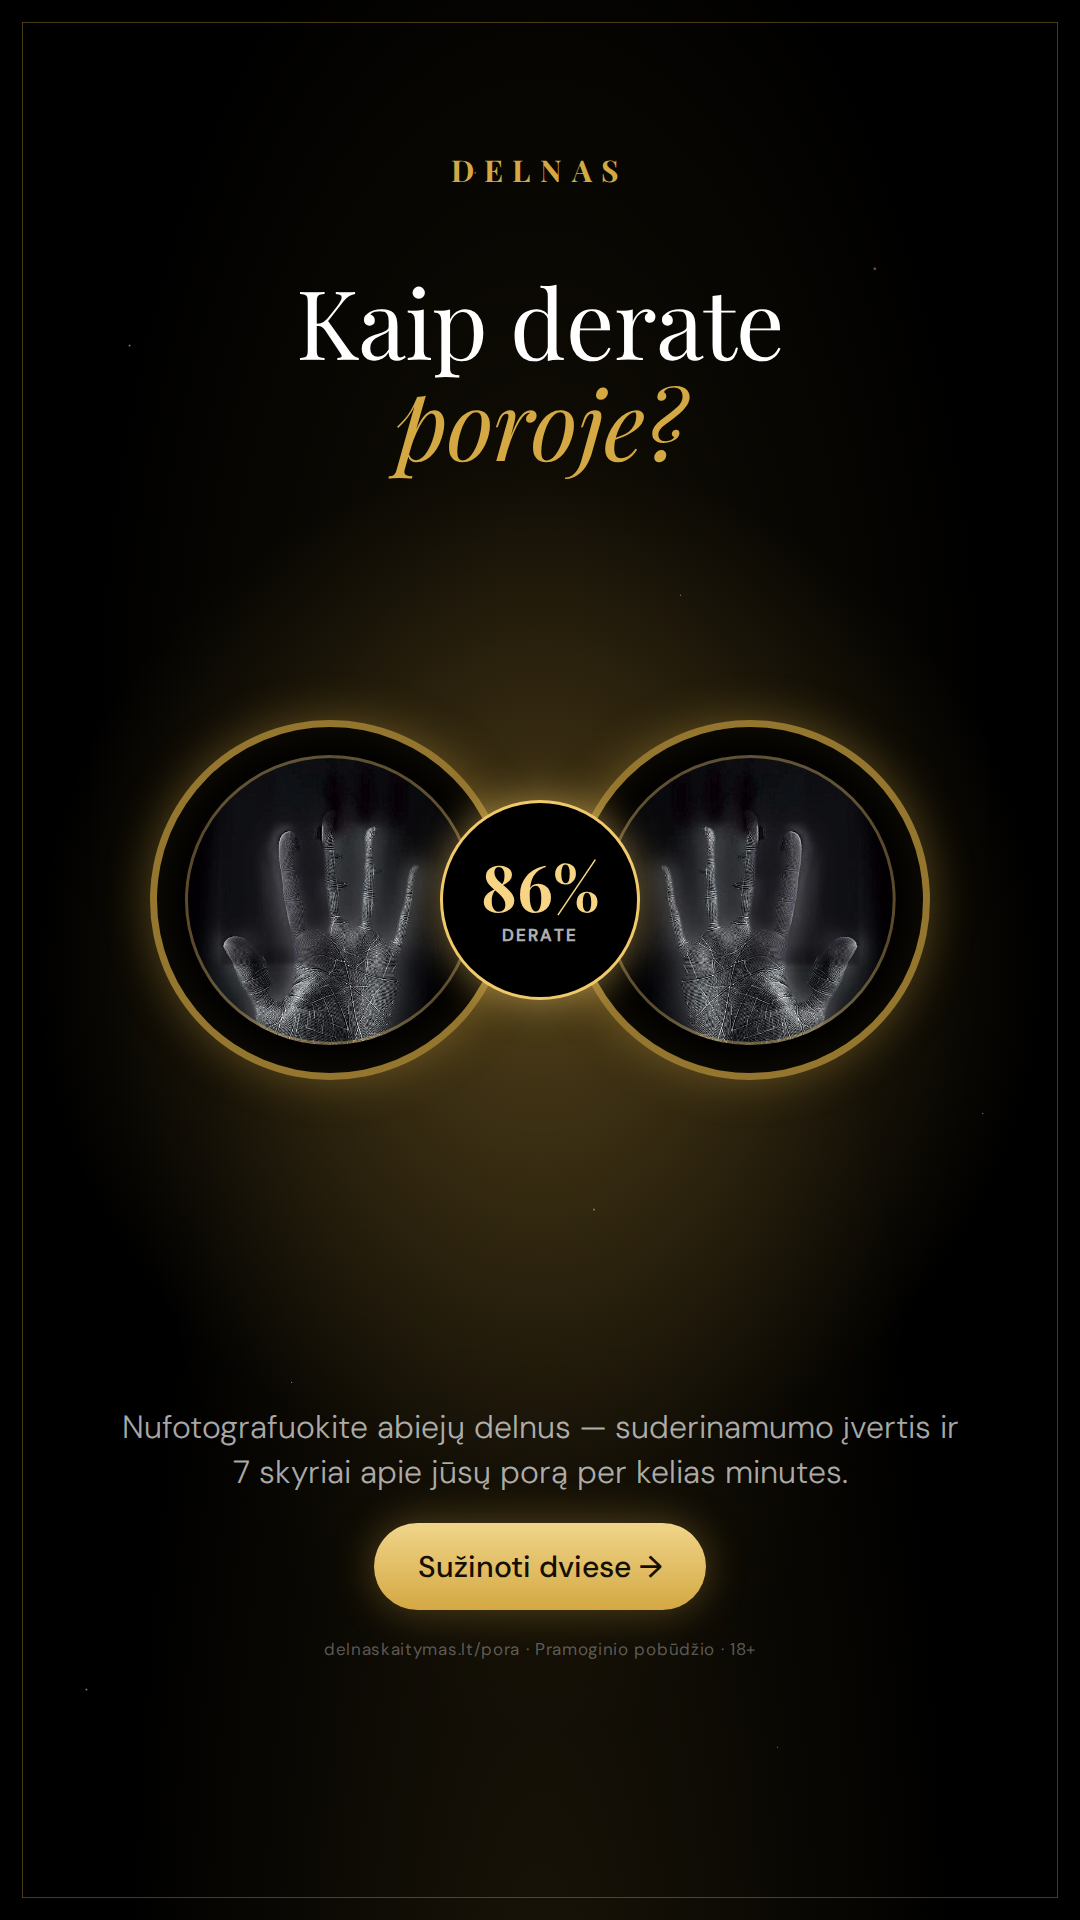
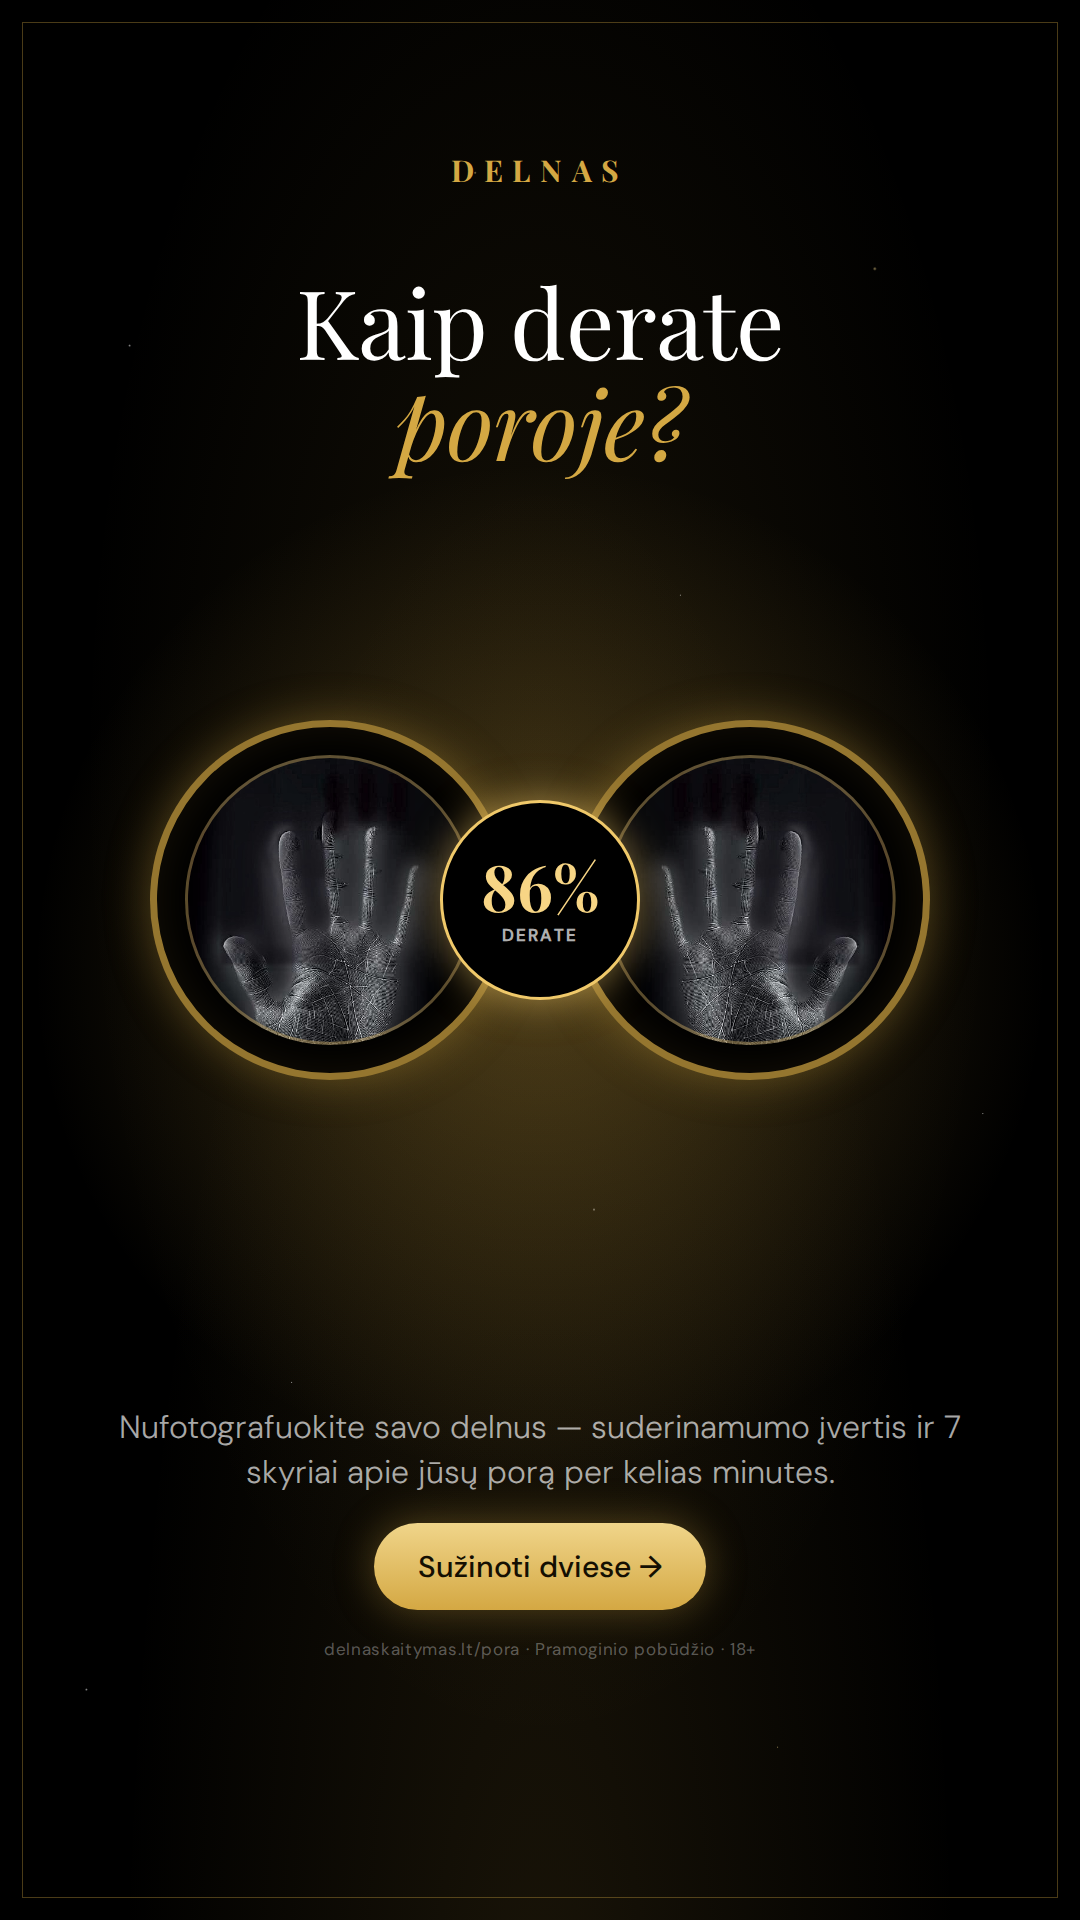
Porų tekstai: „nufotografuokite savo delnus“ vietoj „abiejų delnus“
Claude-Session: https://claude.ai/code/session_01SAS6jcXVwrehsNMXyhjzXP

Changed region(s): [[0.1222, 0.7188, 0.8861, 0.7812]]

diff --git a/pora.html b/pora.html
@@ -199,7 +199,7 @@ a{color:var(--gold)}
       <h1>Ką apie jūsų porą<br><em>pasakoja delnai?</em></h1>
     </div>
     <div class="gift-note hidden" id="gift-note"></div>
-    <p class="lead sm" id="lead">Nufotografuokite abiejų delnus — ir gaukite porų suderinamumo analizę: kas jus sieja, kuo papildote vienas kitą ir kur verta susitarti.</p>
+    <p class="lead sm" id="lead">Nufotografuokite savo delnus — ir gaukite porų suderinamumo analizę: kas jus sieja, kuo papildote vienas kitą ir kur verta susitarti.</p>
     <form class="card-form" id="pora-form" novalidate>
       <div class="row2">
         <label for="f-a">Tavo vardas</label>
@@ -311,7 +311,7 @@ a{color:var(--gold)}
       document.querySelector('#v-form h1').innerHTML = '🎁 Jums dovana —<br><em>porų suderinamumas</em>';
       $('gift-note').innerHTML = (d.message ? '<i>„' + esc(d.message) + '“</i>' : '') + (d.fromName ? '<span>— nuo ' + esc(d.fromName) + '</span>' : '') ;
       $('gift-note').classList.toggle('hidden', !d.message && !d.fromName);
-      $('lead').textContent = 'Įrašykite abu vardus ir el. paštą, tada nufotografuokite abiejų delnus. Mokėti nereikia.';
+      $('lead').textContent = 'Įrašykite abu vardus ir el. paštą, tada nufotografuokite savo delnus. Mokėti nereikia.';
       $('pay-btn').innerHTML = 'Pradėti →';
       document.querySelector('#pora-form .trust').textContent = '🎁 Apmokėta dovanų kuponu ' + d.code;
     } catch (e) { giftError('Nepavyko patikrinti dovanos kodo'); }

diff --git a/dovana.html b/dovana.html
@@ -426,7 +426,7 @@ body:not(.kind-pora) #v-form .hero2{display:none}
     $('form-lead').textContent = pora ? 'Porų suderinamumo analizė pagal abiejų delnus — dovanų. Kortelė su kodu — iškart į tavo el. paštą.' : 'Asmeninė delnų analizė dovanų. Kortelė su kodu — iškart į tavo el. paštą.';
     $('f-to').placeholder = pora ? 'Ievai ir Tomui' : 'pvz. Ievai';
     $('s3-h').innerHTML = pora ? 'Dovana atskleidžia, <em>kaip jie dera</em>' : 'Dovana atskleidžia <em>asmeninį žemėlapį</em>';
-    $('s3-p').textContent = pora ? 'Pora viename telefone nufotografuoja abiejų delnus ir per kelias minutes gauna suderinamumo įvertį bei 7 skyrių analizę su PDF. Mokėti nereikės.' : 'Nufotografavus abu delnus, per kelias minutes gaunama asmeninė 7 skyrių analizė su PDF. Mokėti nereikės.';
+    $('s3-p').textContent = pora ? 'Pora viename telefone nufotografuoja savo delnus ir per kelias minutes gauna suderinamumo įvertį bei 7 skyrių analizę su PDF. Mokėti nereikės.' : 'Nufotografavus abu delnus, per kelias minutes gaunama asmeninė 7 skyrių analizė su PDF. Mokėti nereikės.';
     $('price').innerHTML = prices[k];
     document.title = pora ? 'DELNAS — Porų suderinamumo dovana' : 'DELNAS — Dovanų kuponas';
     try { history.replaceState(null, '', location.pathname + (pora ? '?tipas=pora' : '') + (params.get('promo') ? (pora ? '&' : '?') + 'promo=' + encodeURIComponent(params.get('promo')) : '')); } catch (e) {}

diff --git a/reklamos/reklamos.html b/reklamos/reklamos.html
@@ -1120,7 +1120,7 @@
   <div class="medal" style="width:360px;height:360px;left:570px;top:720px"><i style="transform:scaleX(-1)"></i></div>
   <div style="position:absolute;left:50%;top:800px;transform:translateX(-50%);width:200px;height:200px;border-radius:50%;background:#000;border:3px solid #f0c96a;box-shadow:0 0 40px rgba(240,201,106,.55);display:flex;flex-direction:column;align-items:center;justify-content:center;z-index:2"><div style="font:700 64px 'Playfair Display';color:#f7d585;line-height:1">86%</div><div style="font:600 17px 'DM Sans';color:rgba(255,255,255,.7);letter-spacing:.12em;margin-top:6px">DERATE</div></div>
   <div style="margin-top:auto;display:flex;flex-direction:column;gap:28px;align-items:center">
-    <p class="sub" style="max-width:860px">Nufotografuokite abiejų delnus — suderinamumo įvertis ir 7 skyriai apie jūsų porą per kelias minutes.</p>
+    <p class="sub" style="max-width:860px">Nufotografuokite savo delnus — suderinamumo įvertis ir 7 skyriai apie jūsų porą per kelias minutes.</p>
     <div class="cta" style="align-self:center">Sužinoti dviese →</div>
     <div class="fine">delnaskaitymas.lt/pora · Pramoginio pobūdžio · 18+</div>
   </div>

diff --git a/index.html b/index.html
@@ -6355,7 +6355,7 @@ async function loadResultOffers(){
     if(d.bundleGift&&d.bundleGift.status==='active'){
       pora.href=d.bundleGift.link;
       pora.querySelector('b').textContent='Jūsų porų analizė jau apmokėta — pradėti →';
-      pora.querySelector('small').innerHTML='Kai būsite kartu, nufotografuokite abiejų delnus. Kuponas <b style="color:var(--gold2);letter-spacing:.06em">'+_xEsc(d.bundleGift.code)+'</b> išsiųstas ir el. paštu.';
+      pora.querySelector('small').innerHTML='Kai būsite kartu, nufotografuokite savo delnus. Kuponas <b style="color:var(--gold2);letter-spacing:.06em">'+_xEsc(d.bundleGift.code)+'</b> išsiųstas ir el. paštu.';
     } else if(d.bundle&&!pora.querySelector('.rb-deal')){
       pora.href='/pora?promo='+encodeURIComponent(d.bundle.code)+'&utm_source=app&utm_campaign=rinkinys';
       const s=document.createElement('span'); s.className='rb-deal';

diff --git a/reklamos/TEKSTAI.md b/reklamos/TEKSTAI.md
@@ -518,7 +518,7 @@ Nuoroda: `/dovana?utm_source=tiktok&utm_campaign=kaledos`
 
 **AA — Porų suderinamumas (45, 46)** → /pora
 > Kaip derate poroje? 💞
-> Nufotografuokite abiejų delnus ir gaukite porų suderinamumo analizę: įvertis procentais, kas jus traukia, kur kyla trintis ir kaip augti kartu. Ekrane ir PDF el. paštu.
+> Nufotografuokite savo delnus ir gaukite porų suderinamumo analizę: įvertis procentais, kas jus traukia, kur kyla trintis ir kaip augti kartu. Ekrane ir PDF el. paštu.
 > Antraštė: **Kaip derate poroje?** · Aprašymas: Porų analizė pagal abiejų delnus
 
 **AB — Kairysis ir dešinysis delnas** → / (asmeninė)
